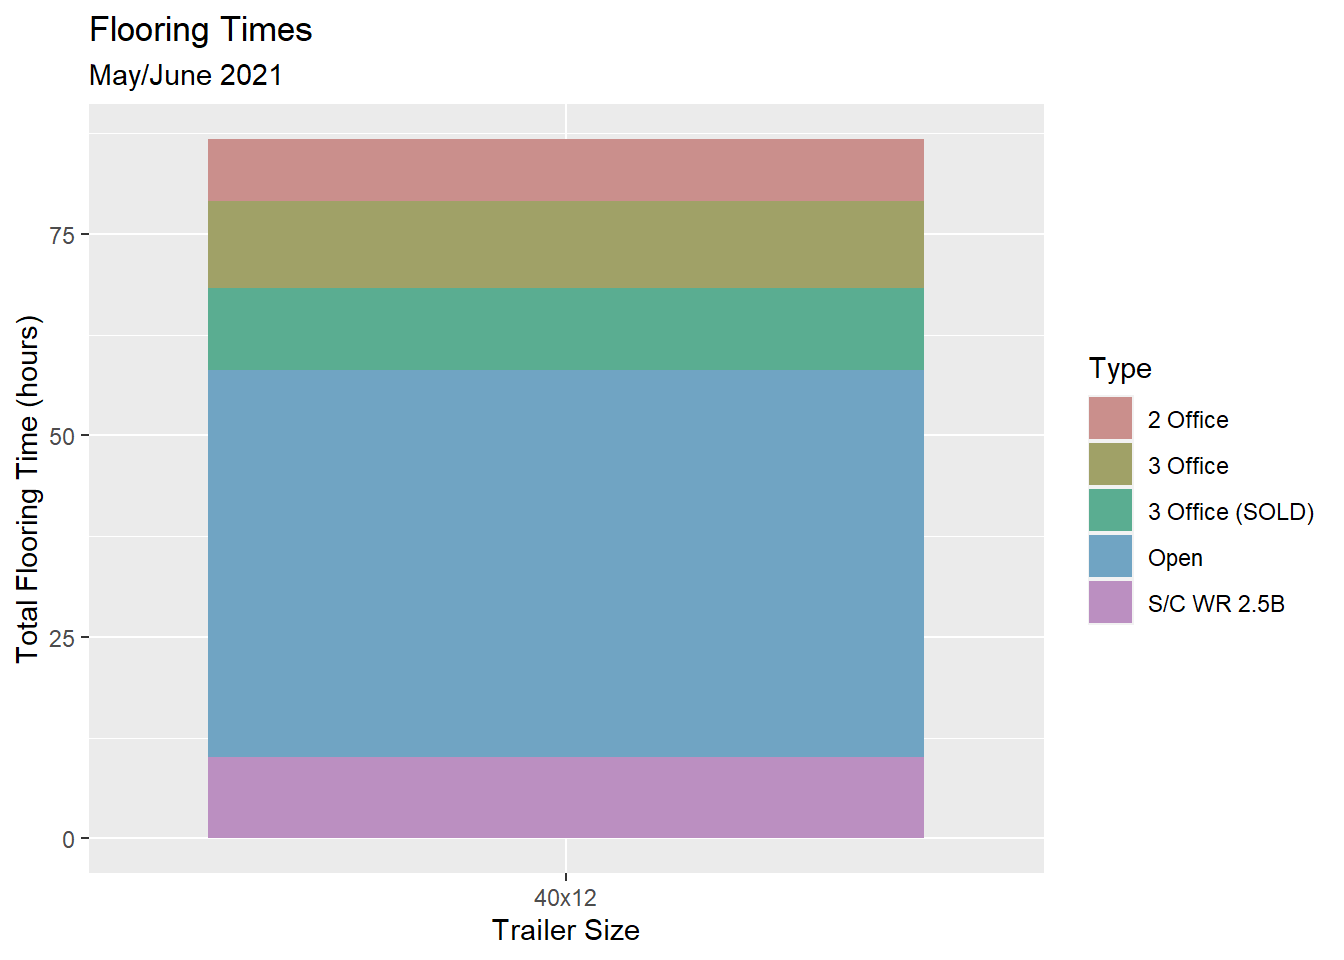
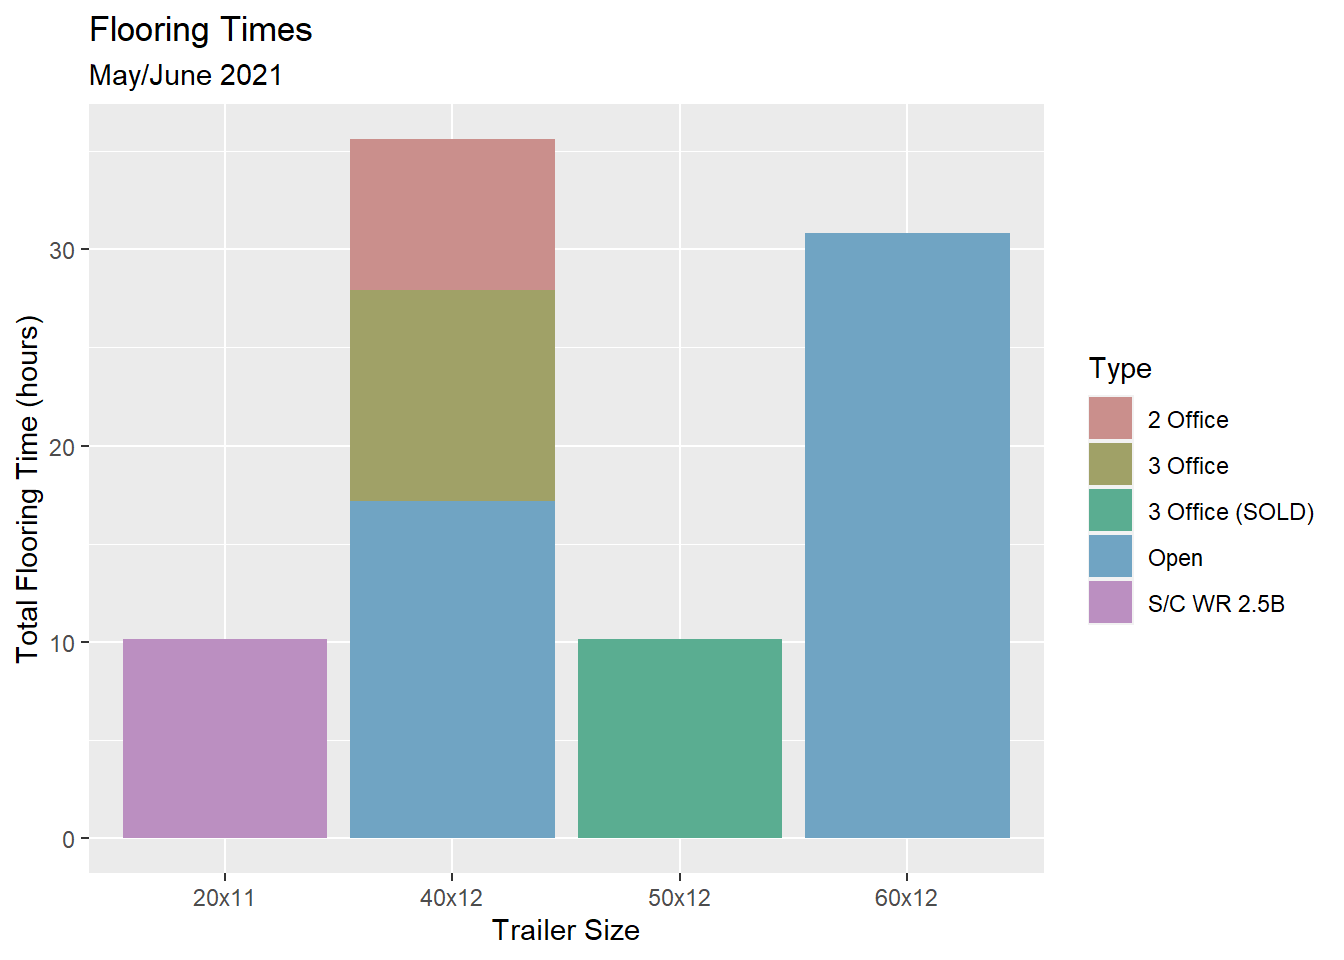
so close

diff --git a/content/post/2021-06-22-assignment-a05-eda2/index.html b/content/post/2021-06-22-assignment-a05-eda2/index.html
@@ -142,8 +142,8 @@ tags: []
 <div id="as-you-can-see-in-the-graph-the-longer-the-insulation-time-the-longer-the-flooring-time.-in-the-earlier-graphs-the-impact-of-increased-worker-hours-was-used-to-evaluate-how-effective-increasing-the-number-of-workers-on-the-insulation-activity-was-in-decreasing-the-insulation-time-and-therefore-the-flooring-time.-from-here-we-can-see-that-it-is-evident-that-if-insulation-time-is-decreased-so-is-time-to-complete-flooring.-this-suggests-that-instead-of-comparing-direct-worker-hours-to-flooring-time-it-may-be-more-effective-to-apply-the-number-of-workers-as-a-weighting-to-the-values-which-may-provide-a-more-accurate-depiction-of-how-increasing-workers-decreased-insulation-time-and-therefore-most-likely-also-the-flooring-time." class="section level4">
 <h4>As you can see in the graph, the longer the insulation time, the longer the flooring time. In the earlier graphs, the impact of increased worker hours was used to evaluate how effective increasing the number of workers on the insulation activity was in decreasing the insulation time and therefore the flooring time. From here, we can see that it is evident that if insulation time is decreased, so is time to complete flooring. This suggests that instead of comparing direct worker hours to flooring time, it may be more effective to apply the number of workers as a weighting to the values, which may provide a more accurate depiction of how increasing workers decreased insulation time and therefore most likely, also the flooring time.</h4>
 </div>
-<div id="for-a-final-visualization-the-graph-below-shows-the-changes-in-flooring-times-for-40x12-units.-these-are-the-units-that-have-been-most-commonly-produced-during-the-data-collection-process-and-therefore-have-undergone-the-most-process-changes." class="section level4">
-<h4>For a final visualization, the graph below shows the changes in flooring times for 40x12 units. These are the units that have been most commonly produced during the data collection process, and therefore have undergone the most process changes.</h4>
+<div id="for-a-final-visualization-the-graph-below-shows-the-overall-time-spent-on-flooring-in-production-broken-down-by-unit-size." class="section level4">
+<h4>For a final visualization, the graph below shows the overall time spent on flooring in production, broken down by unit size.</h4>
 <p><img src="{{< blogdown/postref >}}index_files/figure-html/unnamed-chunk-12-1.png" width="672" /></p>
 </div>
 </div>
